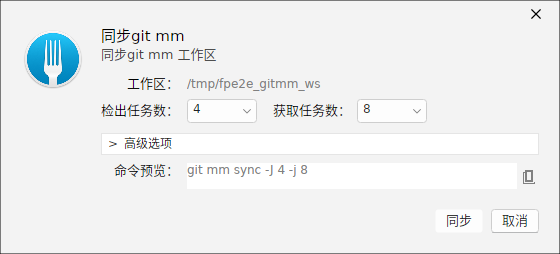
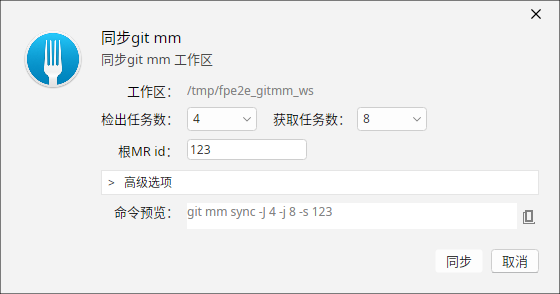
feat(gitmm): 同步弹窗新增根 MR id 输入框 (-s) 并刷新 Pages (v5.6.2)
- GitMmSyncWindow 检出任务数下方新增「根 MR id」输入框：填写正整数后
  命令追加 -s <id> (git mm sync -s <id>)，留空/0/非法输入不加；命令预览实时联动
- 输入框逐字符过滤非数字、去前导 0；八语言本地化 (含 zh-Hans 根 MR id：)
- 版本号 5.6.1 -> 5.6.2；新增 GitMmSyncRootMrIdTests 单测
- Pages: 手册版本 v5.3.1 -> v5.6.2，补 5.6.2/5.6.1/5.6.0 更新日志；
  重截 gitmm sync 图 (含 -s 123)、初始化图换 v5.6.0 版、ch-20 补 tokei 代码行数图
- RELEASE_NOTE.md 增 v5.6.2 章节供 CI 提取 release 正文

diff --git a/docs/manual/ch-18-gitmm.html b/docs/manual/ch-18-gitmm.html
@@ -9,7 +9,7 @@
 <body>
 <header class="manual-header">
   <h1>第 18 章 · Git Mm 工作区</h1>
-  <p>ForkPlus 用户手册 · 版本 v5.3.1</p>
+  <p>ForkPlus 用户手册 · 版本 v5.6.2</p>
 </header>
 <nav class="manual-nav">
   <a href="index.html">总览</a>
@@ -27,15 +27,16 @@
   <h2>初始化 Git Mm 工作区</h2>
   <p>打开「初始化 Git Mm」窗口，填写三类信息：</p>
   <ul>
-    <li><strong>清单地址 Manifest URL</strong>：引用子仓库清单的远端仓库地址。</li>
-    <li><strong>父目录 Parent Directory</strong>：工作区将被创建在该目录下。</li>
+    <li><strong>清单仓库 URL</strong>：引用子仓库清单的远端仓库地址；右侧「<strong>加载</strong>」按钮会从该仓库读取分支与 XML 清单文件，自动填充下方两个下拉框。</li>
+    <li><strong>父目录 Parent Directory</strong>：工作区将被创建在该目录下；可勾选「创建子目录」在其下再建一层。</li>
     <li><strong>仓库名 Repository Name</strong>：工作区目录名。</li>
+    <li><strong>清单分支 / 清单文件 / 清单分组</strong>：均为可搜索下拉框，分别对应 <code>-b</code> / <code>-m</code> / <code>-g</code> 参数（分组默认 <code>default</code>）。</li>
   </ul>
   <p>窗口下方实时预览将执行的命令（如 <code>git mm init -u &lt;manifest&gt; -m dependency.xml -b master -g default</code>），确认后提交。</p>
 
   <figure>
     <img src="screenshots/18-gitmm/01-gitmm-init.png" alt="初始化 Git Mm 工作区窗口" loading="lazy">
-    <figcaption>图 18-1　初始化 Git Mm 工作区：填写清单地址、父目录、仓库名，下方为命令预览</figcaption>
+    <figcaption>图 18-1　初始化 Git Mm 工作区：清单仓库 URL + 加载按钮、父目录、名称、可搜索的清单分支/文件/分组下拉，下方为命令预览</figcaption>
   </figure>
 
   <h2>Git Mm 工作区标签页</h2>
@@ -76,8 +77,11 @@
 
   <figure>
     <img src="screenshots/18-gitmm/04-gitmm-sync.png" alt="Git Mm 同步窗口" loading="lazy">
-    <figcaption>图 18-4　同步（Sync）窗口：把子仓库同步到清单声明的版本，含命令预览</figcaption>
+    <figcaption>图 18-4　同步（Sync）窗口：把子仓库同步到清单声明的版本，含「根 MR id」与命令预览</figcaption>
   </figure>
+
+  <h3>同步窗口的「根 MR id」</h3>
+  <p>同步（Sync）窗口在「检出任务数」下方提供<strong>「根 MR id」</strong>输入框：填写一个正整数后，命令预览会实时追加 <code>-s &lt;id&gt;</code>（即 <code>git mm sync -s &lt;id&gt;</code>），用于按指定根 MR 同步；<strong>留空则不追加</strong>该参数。输入框仅接受正整数——非数字字符、负数、小数点会被自动剔除，前导 0 会被去掉（如输入 <code>007</code> 归一为 <code>7</code>），纯 <code>0</code> 视为留空。</p>
 
   <figure>
     <img src="screenshots/18-gitmm/05-gitmm-upload.png" alt="Git Mm 上传窗口" loading="lazy">

diff --git a/docs/manual/index.html b/docs/manual/index.html
@@ -9,7 +9,7 @@
 <body>
 <header class="manual-header">
   <h1>ForkPlus 用户手册</h1>
-  <p>跨平台 Git 客户端 · Windows / Linux / macOS · 版本 v5.3.1</p>
+  <p>跨平台 Git 客户端 · Windows / Linux / macOS · 版本 v5.6.2</p>
 </header>
 <nav class="manual-nav">
   <a href="index.html" class="active">总览</a>
@@ -17,6 +17,21 @@
 <main class="manual-main">
   <h2>欢迎</h2>
   <p>本手册介绍 ForkPlus 的安装、界面与全部功能模块。各章节由自动化场景实测截图编写。</p>
+
+  <h2>v5.6.2 更新</h2>
+  <ul>
+    <li><strong>同步弹窗支持根 MR id</strong>：git mm <strong>同步（Sync）</strong>弹窗在「检出任务数」下方新增<strong>「根 MR id」</strong>输入框——填写后命令追加 <code>-s &lt;id&gt;</code>（对应 <code>git mm sync -s &lt;id&gt;</code>），留空则不追加；输入框仅接受正整数（非数字、负数、小数被剔除，前导 0 自动去掉），命令预览实时联动。详见<a href="ch-18-gitmm.html">第 18 章 · Git Mm</a>。</li>
+  </ul>
+
+  <h2>v5.6.1 更新</h2>
+  <ul>
+    <li><strong>.log 强制按文本对比</strong>：.log 本质是文本日志，但程序写入时偶尔夹带 NUL 字节，此前被 git 判为二进制、走十六进制视图而无法使用「部分暂存」。现对 .log 在 diff 命令加 <code>--text</code> 强制按文本输出，文件浏览同步跳过 NUL 检测，部分暂存恢复正常。</li>
+  </ul>
+
+  <h2>v5.6.0 更新</h2>
+  <ul>
+    <li><strong>初始化弹窗增强</strong>：git mm 初始化弹窗清单仓库 URL 后新增「加载」按钮，分支与清单文件改为可搜索下拉、自动从清单仓库读取；被对比视图插件认领的文本文件（如 .json）可切回文本视图以保留「部分暂存」，同时扩大非图片二进制插件的字节供给上限。详见<a href="ch-18-gitmm.html">第 18 章 · Git Mm</a>。</li>
+  </ul>
 
   <h2>v5.3.1 更新</h2>
   <ul>

diff --git a/docs/manual/ch-20-viewers.html b/docs/manual/ch-20-viewers.html
@@ -9,7 +9,7 @@
 <body>
 <header class="manual-header">
   <h1>第 20 章 · 查看器窗口</h1>
-  <p>ForkPlus 用户手册 · 版本 v5.3.1</p>
+  <p>ForkPlus 用户手册 · 版本 v5.6.2</p>
 </header>
 <nav class="manual-nav">
   <a href="index.html">总览</a>
@@ -71,6 +71,11 @@
     <li><strong>排除模式</strong>：在 <code>Exclude</code> 输入框按行填写 glob 模式（语义同 .gitignore，例如 <code>tests/</code>、<code>**/*.Tests/</code>、<code>bin/</code>），点「Recount with excludes」按排除后的结果重新统计。</li>
     <li><strong>摘要</strong>：在面板顶部给出当前范围的「N files · N code · N comments · N blanks」总览。</li>
   </ul>
+  <figure>
+    <img src="screenshots/20-viewers/08-code-lines-tokei.png" alt="代码行数统计面板" loading="lazy">
+    <figcaption>图 20-8　代码行数统计：按语言列出文件/代码/注释/空白行，右侧为语言占比环形图</figcaption>
+  </figure>
+
   <div class="tip"><strong>小贴士：</strong>代码行数统计依赖 <code>tokei</code>。若提示 "tokei not found"，请从 <a href="https://github.com/XAMPPRocky/tokei/releases" target="_blank" rel="noopener">tokei 官方发布页</a> 下载对应平台的可执行文件放到 ForkPlus 程序目录（或安装到系统 PATH），再点「Refresh」重试。</div>
 
   <h2>修订详情（Revision Details）</h2>

diff --git a/docs/manual/ch-03-history.html b/docs/manual/ch-03-history.html
@@ -9,7 +9,7 @@
 <body>
 <header class="manual-header">
   <h1>第 3 章 · 提交历史与修订列表</h1>
-  <p>ForkPlus 用户手册 · 版本 v5.3.1</p>
+  <p>ForkPlus 用户手册 · 版本 v5.6.2</p>
 </header>
 <nav class="manual-nav">
   <a href="index.html">总览</a>

diff --git a/docs/manual/ch-25-dialogs.html b/docs/manual/ch-25-dialogs.html
@@ -9,7 +9,7 @@
 <body>
 <header class="manual-header">
   <h1>第 25 章 · 通用对话框与工具</h1>
-  <p>ForkPlus 用户手册 · 版本 v5.3.1</p>
+  <p>ForkPlus 用户手册 · 版本 v5.6.2</p>
 </header>
 <nav class="manual-nav">
   <a href="index.html">总览</a>

diff --git a/docs/manual/ch-26-plugin-mechanism.html b/docs/manual/ch-26-plugin-mechanism.html
@@ -9,7 +9,7 @@
 <body>
 <header class="manual-header">
   <h1>第 26 章 · 对比视图插件机制</h1>
-  <p>ForkPlus 用户手册 · 版本 v5.3.1</p>
+  <p>ForkPlus 用户手册 · 版本 v5.6.2</p>
 </header>
 <nav class="manual-nav">
   <a href="index.html">总览</a>

diff --git a/docs/manual/ch-01-welcome.html b/docs/manual/ch-01-welcome.html
@@ -9,7 +9,7 @@
 <body>
 <header class="manual-header">
   <h1>第 1 章 · 欢迎页与仓库管理</h1>
-  <p>ForkPlus 用户手册 · 版本 v5.3.1</p>
+  <p>ForkPlus 用户手册 · 版本 v5.6.2</p>
 </header>
 <nav class="manual-nav">
   <a href="index.html">总览</a>

diff --git a/docs/manual/ch-07-binary-diff.html b/docs/manual/ch-07-binary-diff.html
@@ -9,7 +9,7 @@
 <body>
 <header class="manual-header">
   <h1>第 7 章 · 二进制与图片 Diff</h1>
-  <p>ForkPlus 用户手册 · 版本 v5.3.1</p>
+  <p>ForkPlus 用户手册 · 版本 v5.6.2</p>
 </header>
 <nav class="manual-nav">
   <a href="index.html">总览</a>

diff --git a/docs/manual/ch-15-submodule-worktree.html b/docs/manual/ch-15-submodule-worktree.html
@@ -9,7 +9,7 @@
 <body>
 <header class="manual-header">
   <h1>第 15 章 · 子模块与 Worktree</h1>
-  <p>ForkPlus 用户手册 · 版本 v5.3.1</p>
+  <p>ForkPlus 用户手册 · 版本 v5.6.2</p>
 </header>
 <nav class="manual-nav">
   <a href="index.html">总览</a>

diff --git a/docs/manual/ch-14-conflicts.html b/docs/manual/ch-14-conflicts.html
@@ -9,7 +9,7 @@
 <body>
 <header class="manual-header">
   <h1>第 14 章 · 合并冲突解决</h1>
-  <p>ForkPlus 用户手册 · 版本 v5.3.1</p>
+  <p>ForkPlus 用户手册 · 版本 v5.6.2</p>
 </header>
 <nav class="manual-nav">
   <a href="index.html">总览</a>

diff --git a/docs/manual/ch-17-gitflow.html b/docs/manual/ch-17-gitflow.html
@@ -9,7 +9,7 @@
 <body>
 <header class="manual-header">
   <h1>第 17 章 · GitFlow 工作流</h1>
-  <p>ForkPlus 用户手册 · 版本 v5.3.1</p>
+  <p>ForkPlus 用户手册 · 版本 v5.6.2</p>
 </header>
 <nav class="manual-nav">
   <a href="index.html">总览</a>

diff --git a/docs/manual/ch-16-patch-snapshot.html b/docs/manual/ch-16-patch-snapshot.html
@@ -9,7 +9,7 @@
 <body>
 <header class="manual-header">
   <h1>第 16 章 · 补丁与快照</h1>
-  <p>ForkPlus 用户手册 · 版本 v5.3.1</p>
+  <p>ForkPlus 用户手册 · 版本 v5.6.2</p>
 </header>
 <nav class="manual-nav">
   <a href="index.html">总览</a>
